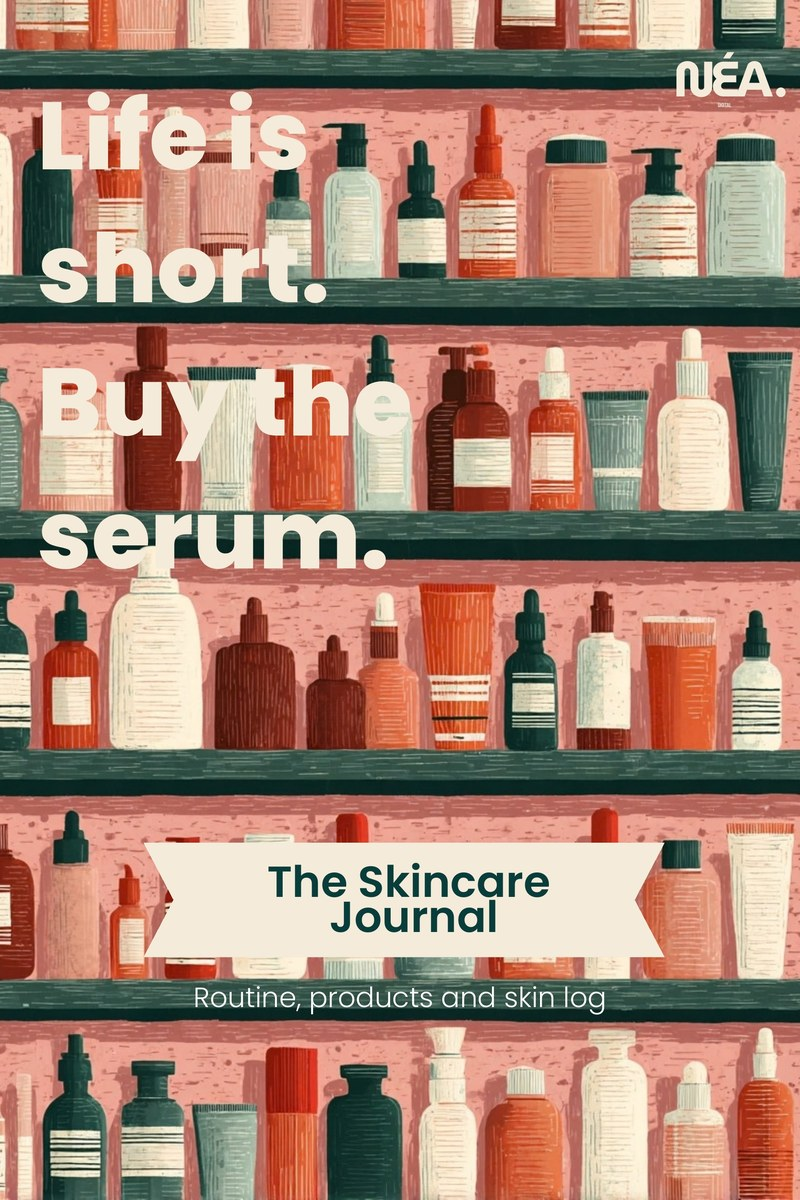
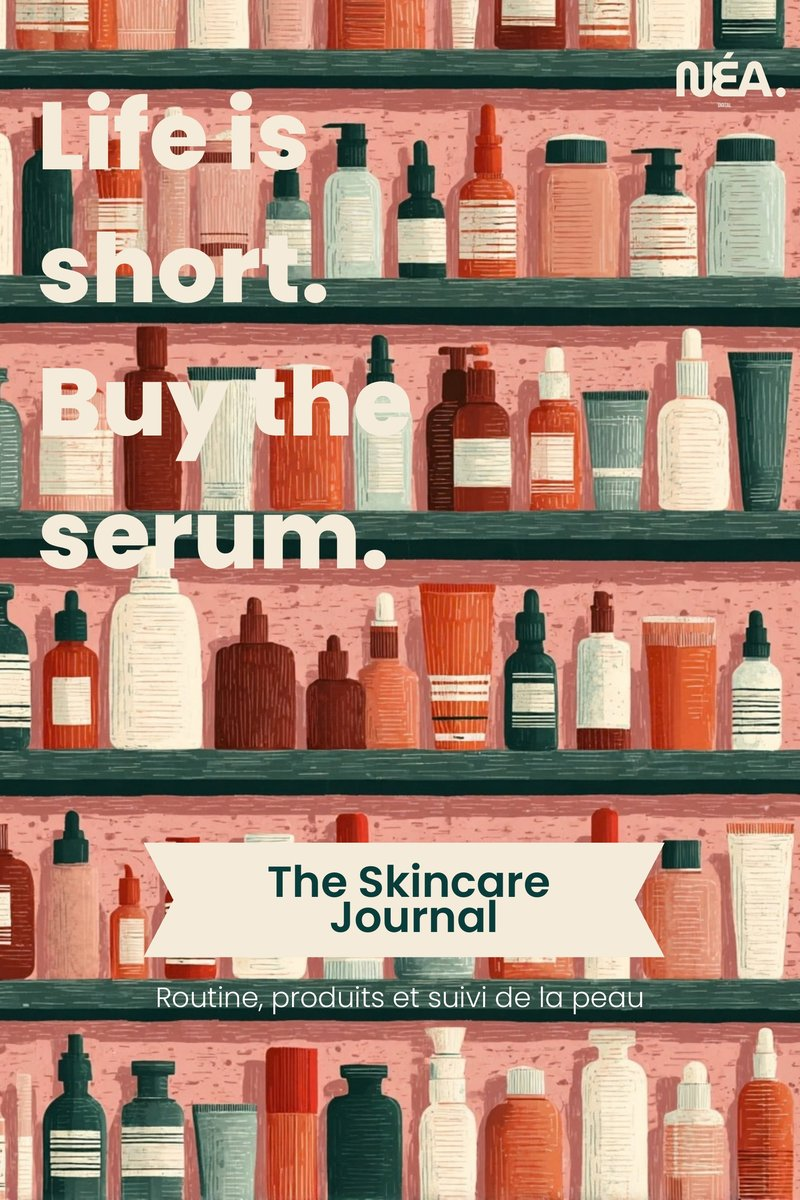
Imprimables : sous-titres en français, galerie de 6 photos par produit, visuels mis à jour
Claude-Session: https://claude.ai/code/session_01F7AoQ5i455LB4X46cTuEWP

Changed region(s): [[0.1875, 0.8017, 0.5, 0.8633], [0.5625, 0.8017, 0.7812, 0.8633], [0.5312, 0.8325, 0.5625, 0.8633]]

diff --git a/data/imprimables.ts b/data/imprimables.ts
@@ -19,7 +19,7 @@ export const imprimables: Imprimable[] = [
   {
     slug: 'freelance-tracker',
     title: 'The Freelance Income Tracker',
-    subtitle: 'Invoices, expenses and budgets',
+    subtitle: 'Factures, dépenses et budget',
     pitch: 'Clients, factures, dépenses et budget mensuel au même endroit, pour savoir ce que tu as gagné, ce qui t’est dû et ce que tu peux dépenser.',
     inside: [
       'Fiche activité, objectifs et calcul du tarif minimum',
@@ -36,14 +36,14 @@ export const imprimables: Imprimable[] = [
   {
     slug: 'skincare-journal',
     title: 'The Skincare Journal',
-    subtitle: 'Routine, products and skin log',
+    subtitle: 'Routine, produits et suivi de la peau',
     pitch: 'Un carnet pour noter ta routine, tes produits et l’état de ta peau, et arrêter de racheter deux fois la même chose. Suivi personnel, pas un avis médical.',
     inside: [
       'Profil de peau et routine matin et soir',
       'Étagère produits avec dates d’ouverture',
       '24 fiches d’avis produit',
       '26 suivis hebdomadaires',
-      'Bilans mensuels, produits terminés et wishlist',
+      'Bilans mensuels, produits terminés et liste d’envies',
     ],
     pages: 82,
     price: null,
@@ -53,7 +53,7 @@ export const imprimables: Imprimable[] = [
   {
     slug: 'networking-planner',
     title: 'The Networking Planner',
-    subtitle: 'Outreach, coffee chats and follow-ups',
+    subtitle: 'Prises de contact, cafés et relances',
     pitch: 'Un système simple pour contacter, préparer tes échanges et relancer, sans perdre le fil de qui tu as rencontré et de ce qui a été dit.',
     inside: [
       'Liste d’entreprises cibles et journal de contacts',
@@ -70,7 +70,7 @@ export const imprimables: Imprimable[] = [
   {
     slug: 'social-media-planner',
     title: 'The 90-Day Content Planner',
-    subtitle: 'Plan, batch and track your posts',
+    subtitle: 'Planifie, prépare et suis tes publications',
     pitch: 'Décide quoi publier, écris par lots et suis ce qui fonctionne, semaine après semaine, sur la plateforme de ton choix.',
     inside: [
       'Marque, audience et piliers de contenu',

diff --git a/components/ImprimableGallery.tsx b/components/ImprimableGallery.tsx
@@ -1,0 +1,52 @@
+"use client";
+
+import Image from "next/image";
+import { useState } from "react";
+
+type Props = {
+  slug: string;
+  title: string;
+  /** Numéros des images (public/resources/imprimables/<slug>-<n>.jpg), la première s'affiche en grand */
+  order?: number[];
+};
+
+export function ImprimableGallery({ slug, title, order = [4, 1, 2, 5, 6, 3] }: Props) {
+  const [active, setActive] = useState(0);
+
+  return (
+    <div>
+      <Image
+        src={`/resources/imprimables/${slug}-${order[active]}.jpg`}
+        alt={`${title}, photo ${active + 1} sur ${order.length}`}
+        width={1200}
+        height={1200}
+        sizes="(min-width: 768px) 50vw, 100vw"
+        className="h-auto w-full rounded-[8px] shadow-line"
+        priority={false}
+      />
+      <ul className="mt-3 grid grid-cols-6 gap-2" aria-label={`Photos de ${title}`}>
+        {order.map((n, i) => (
+          <li key={n}>
+            <button
+              type="button"
+              onClick={() => setActive(i)}
+              aria-label={`Afficher la photo ${i + 1}`}
+              aria-current={i === active}
+              className={`focus-ring block w-full overflow-hidden rounded-[4px] border transition ${
+                i === active ? "border-ink" : "border-transparent opacity-60 hover:opacity-100"
+              }`}
+            >
+              <Image
+                src={`/resources/imprimables/${slug}-${n}.jpg`}
+                alt=""
+                width={200}
+                height={200}
+                className="h-auto w-full"
+              />
+            </button>
+          </li>
+        ))}
+      </ul>
+    </div>
+  );
+}

diff --git a/app/shop/imprimables/page.tsx b/app/shop/imprimables/page.tsx
@@ -1,5 +1,5 @@
 import type { Metadata } from "next";
-import Image from "next/image";
+import { ImprimableGallery } from "@/components/ImprimableGallery";
 import { imprimables } from "@/data/imprimables";
 
 export const metadata: Metadata = {
@@ -22,13 +22,7 @@ export default function ImprimablesPage() {
         {imprimables.map((p, index) => (
           <article key={p.slug} className="grid gap-10 md:grid-cols-2 md:items-center">
             <div className={index % 2 === 1 ? "md:order-2" : ""}>
-              <Image
-                src={`/resources/imprimables/${p.slug}-mockup.jpg`}
-                alt={`${p.title} en situation`}
-                width={1200}
-                height={1200}
-                className="h-auto w-full rounded-[8px] shadow-line"
-              />
+              <ImprimableGallery slug={p.slug} title={p.title} />
             </div>
             <div>
               <p className="eyebrow text-[11px]" style={{ color: p.accent }}>PDF imprimable, {p.pages} pages</p>
